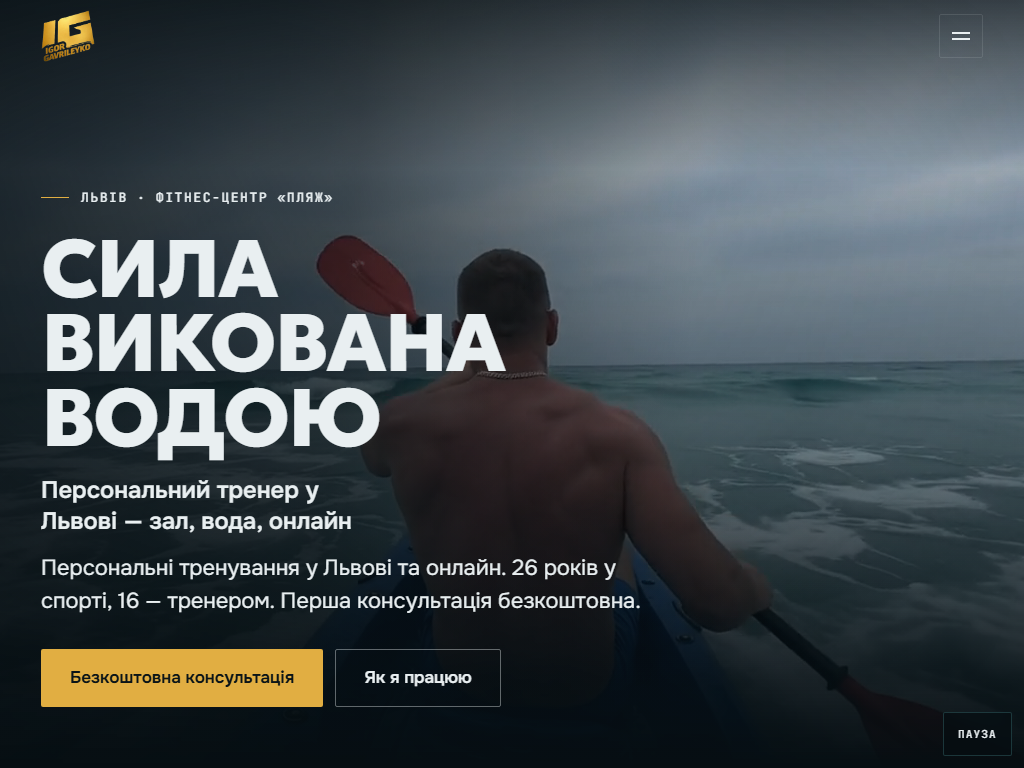
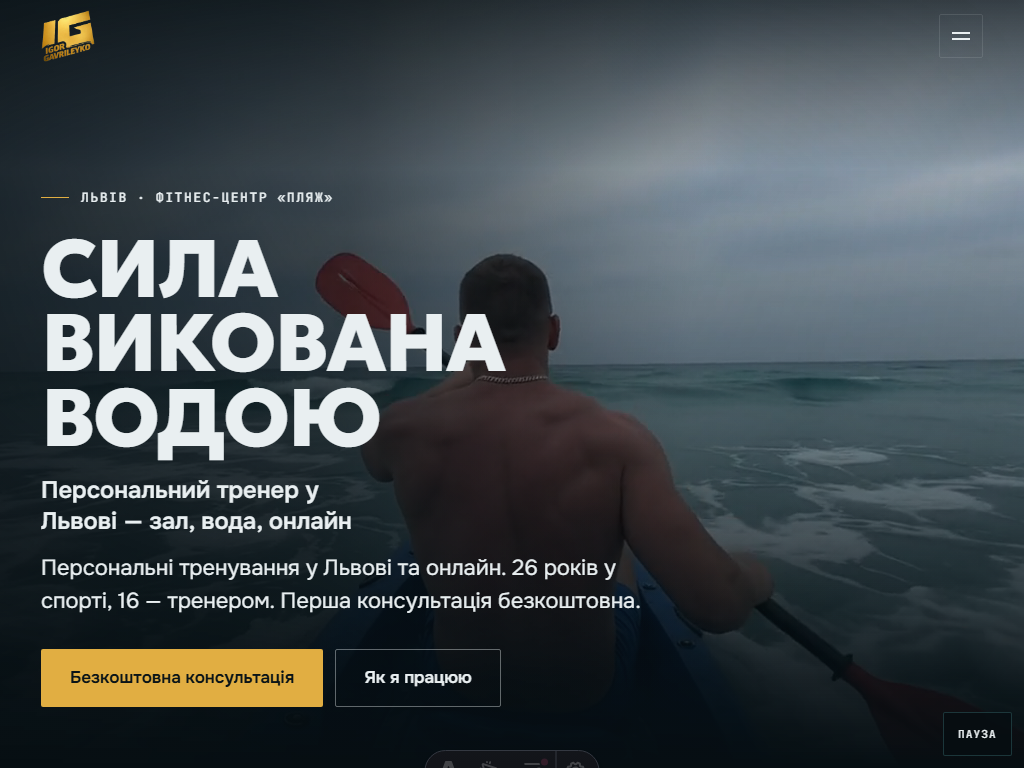
fix(intro): fill the phone viewport and stop iOS hanging on a second play
Cover-crop the landscape open, keep a water wash instead of black bars, and hold other videos until the intro ends so the decoder is not shared.

diff --git a/docs/PROJECT_STATE.md b/docs/PROJECT_STATE.md
@@ -1,22 +1,24 @@
 # PROJECT STATE
 
-_Last updated: 2026-08-18 · checkpoint CP-15_
+_Last updated: 2026-08-31 · preview: mobile intro + darkened-page QA_
 
 ## Current stage
 
-Production frontend candidate v1 on isolated branch
-`production/frontend-v1-grok`. Awaiting **human review** before any merge to
-`main` or production deploy.
+Preview of **IMG_1851 intro + canoe-scroll backdrop** on branch
+`claude/scroll-canoe-backdrop`. Production `main` is untouched. The Railway
+service `motion-lab-intro-preview` is the only deploy target for this work.
+
+CP-15 (`production/frontend-v1-grok`) remains the production-frontend
+candidate. Do not merge either branch to `main` without a human.
 
 ## Last completed checkpoint
 
-CP-15 — client-requested production frontend changes implemented on the
-isolated branch.
+CP-15 — client-requested production frontend changes on
+`production/frontend-v1-grok`. Approved prototype baseline: tag
+`client-approved-prototype-v1` @ `cac608a`.
 
-Approved prototype baseline: tag `client-approved-prototype-v1` @ `cac608a`.
-
-Rollback for this candidate: that tag / `main`. Do not treat this branch as
-live production.
+This preview line (canoe backdrop → IMG_1851 open → mobile playback) is
+separate from that candidate.
 
 ## Latest commit SHA
 
@@ -24,16 +26,17 @@ See `git log -1 --format=%H`. Recorded per checkpoint in `WORKLOG.md`.
 
 ## What works
 
-- Everything listed under CP-13/CP-14 still holds (Astro static frontend,
-  media pipeline, fonts, Before/After, SEO/noindex preview, contact seam).
-- Home achievement strip matches the client edit (26 / 16 / 2× / 4).
-- Session price is 700 ₴ with «Перше тренування — 400 ₴» as a subordinate line.
-- Medical exclusion is visible in FAQ, not in the pricing block.
-- Formats portrait is the client `Page_5_edit.jpg` derivative.
-- Water section plays one of three client videos at a time, muted by default,
-  with a visible sound toggle and viewport pause.
-- Contact form copies the typed Ukrainian message, then opens Telegram or
-  Instagram Direct. It never claims a server submission.
+- Astro static frontend, media pipeline, fonts, Before/After, SEO/noindex
+  preview, contact seam (CP-13–CP-15).
+- First-visit open (session key `ig-open-1851-m2`): landscape film is
+  `object-fit: cover` on phones so water fills the viewport. A blurred poster
+  wash sits behind so any gap is water, not empty black. Last 0,62 s the film
+  drops away and the full lockup flies into `.hdr-brand`.
+- Hero / section loops do not start until the intro is gone, so iOS is not
+  asked to decode two videos at once.
+- QA on the darkened canoe page: 43 checks, 0 fail, 0 warn. Lighthouse 13.4.1
+  mobile accessibility 100, best-practices 100, `color-contrast` pass
+  (`?skipintro=1` so the overlay is not what gets measured).
 
 ## What is incomplete
 
@@ -42,7 +45,7 @@ configuration, merge to `main`, production hosting cutover.
 
 ## Blockers
 
-None for review of this candidate. Merge and production deploy require a human.
+None for preview. Merge and production deploy require a human.
 
 ## Open human decisions
 
@@ -60,17 +63,8 @@ None for review of this candidate. Merge and production deploy require a human.
 
 ## Exact next action
 
-**HUMAN REVIEW** of branch `production/frontend-v1-grok`.
-
-Do **not** merge to `main`. Do **not** overwrite the existing Railway
-deployment.
-
-Local preview: `npm run preview` → http://127.0.0.1:4321/
-
-## Preview: intro + canoe scroll
-
-Branch `claude/scroll-canoe-backdrop` now also plays **IMG_1851** as the
-first-visit open (fade last 0,62 s, fly into `.hdr-brand`), then the
-scroll-driven canoe backdrop. Session key `ig-open-1851`. Production `main`
-untouched. Preview:
+On a real phone, open an **incognito / new-tab** visit to
 https://motion-lab-intro-preview-production.up.railway.app
+(session key changed, so a previous «seen» flag will not hide the intro).
+
+Do **not** merge to `main`. Do **not** `railway up` the production service.

diff --git a/docs/WORKLOG.md b/docs/WORKLOG.md
@@ -284,3 +284,23 @@ The canoe canvas idles while `html.is-intro` is set, then scrubbing resumes.
 `npm run check` ok. Playwright: intro plays, brand docks, scrollY 900 still
 has the backdrop. Production `main` untouched.
 
+---
+
+## Preview — mobile intro cover, playback, darkened QA · 2026-08-31
+
+The live phone screenshot was a 16:9 strip in empty black. Cover fills the
+viewport with water; a blurred poster wash is the ground, not `#000`. On
+portrait the cropped film is dropped at the hand-off so the full lockup is
+readable, then it flies into `.hdr-brand`.
+
+iOS hang: the hero loop was starting under the overlay (one decoder, two
+films). Autovideo and the 72 canoe frames now wait until `html.is-intro` is
+gone. Intro `play()` is serialised; first tap unlocks instead of skipping;
+no per-frame video resize.
+
+QA `scripts/qa.mjs` against the canoe-darkened page: **43 / 0 / 0**. Token
+contrast after darkening still clears WCAG (h1 16.75:1, `#fit .lead` 5.62:1,
+hero eyebrow pixels 8.43:1). Lighthouse 13.4.1 mobile, page not overlay:
+accessibility 100, best-practices 100, `color-contrast` pass. `npm run check`
+ok. Production `main` untouched.
+

diff --git a/docs/HANDOFF.md b/docs/HANDOFF.md
@@ -74,9 +74,10 @@ QA evidence, including screenshots at every reviewed width, is in
 
 ## Exact next action
 
-**HUMAN REVIEW** of `production/frontend-v1-grok`. Do not merge. Do not
-overwrite Railway production.
+On a real phone, incognito visit
+https://motion-lab-intro-preview-production.up.railway.app
+(session `ig-open-1851-m2`). Confirm full-bleed water, lockup readable, no
+freeze on a second open.
 
-Preview of intro + canoe scroll: branch `claude/scroll-canoe-backdrop`
-(IMG_1851 open, then the scroll-driven canoe backdrop). Deploys to
-https://motion-lab-intro-preview-production.up.railway.app — not `main`.
+Do **not** merge to `main`. Do **not** `railway up` the production service.
+The working branch is `claude/scroll-canoe-backdrop`.

diff --git a/docs/DEPLOYMENT.md b/docs/DEPLOYMENT.md
@@ -111,6 +111,7 @@ the deployed artifact matches a known SHA.
 | Public URL | <https://motion-lab-intro-preview-production.up.railway.app> |
 | Service | `motion-lab-intro-preview` |
 | Branch | `claude/scroll-canoe-backdrop` |
+| Intro session | `ig-open-1851-m2` (incognito to replay) |
 
 Do **not** `railway up` the production service for this work.
 
